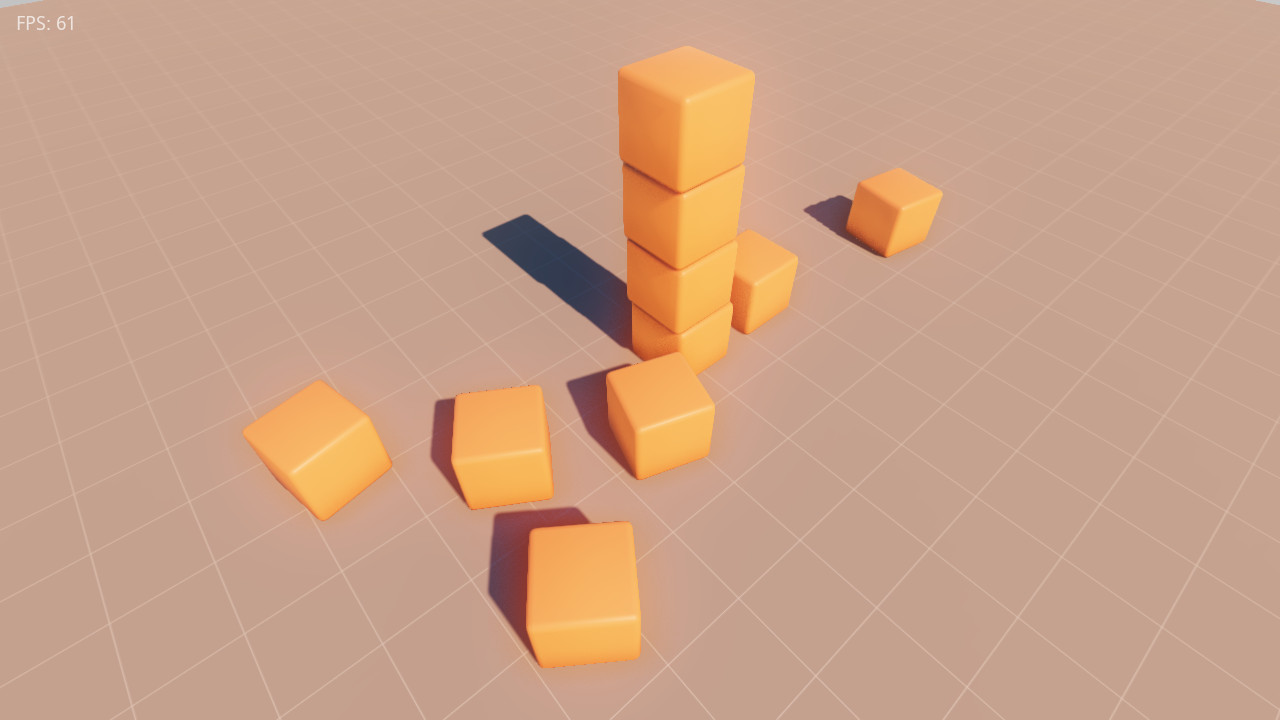
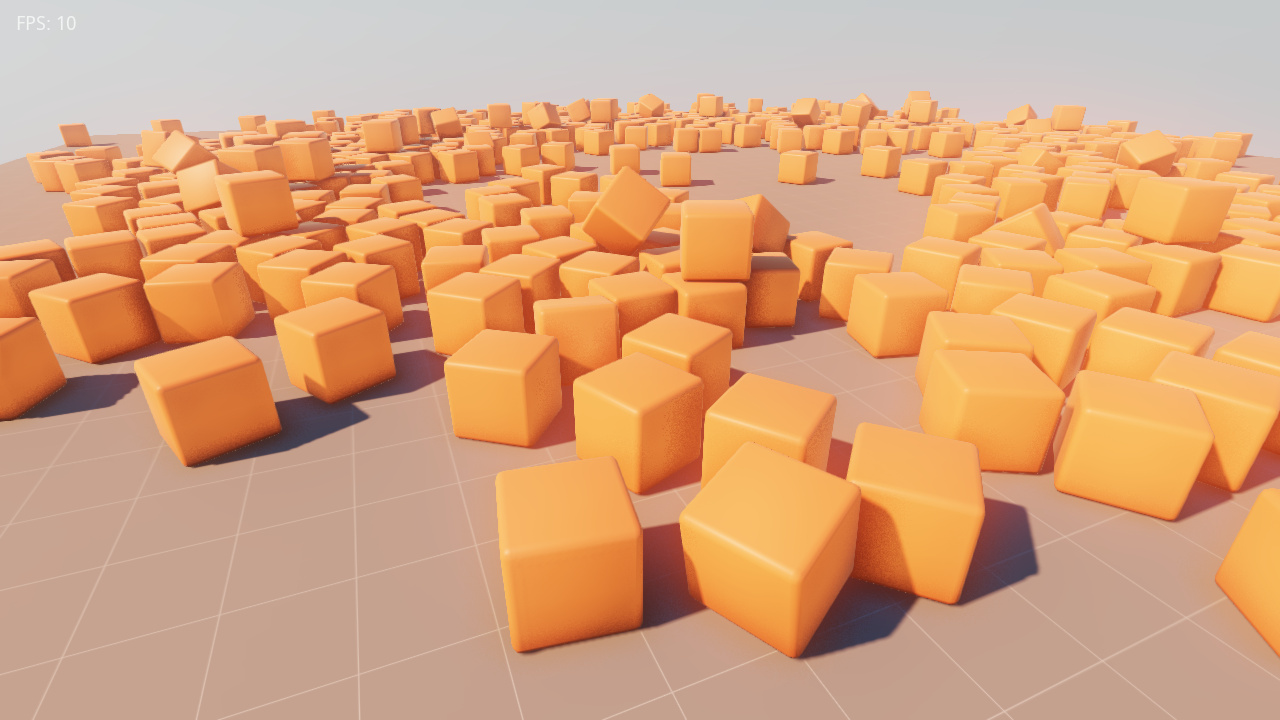
100 cubes

diff --git a/README.md b/README.md
@@ -1,4 +1,6 @@
 # Newton for Dagon 
-[Newton Game Dynamics 3.14](https://github.com/MADEAPPS/newton-dynamics) integration for [Dagon](https://github.com/gecko0307/dagon) using BindBC binding. Work in progress.
+[Newton Game Dynamics 3.14](https://github.com/MADEAPPS/newton-dynamics) integration to [Dagon](https://github.com/gecko0307/dagon) using BindBC binding. 
+
+Work in progress! Only a simple demo is available now as a proof of concept.
 
 ![Screenshot](screenshot.jpg)
